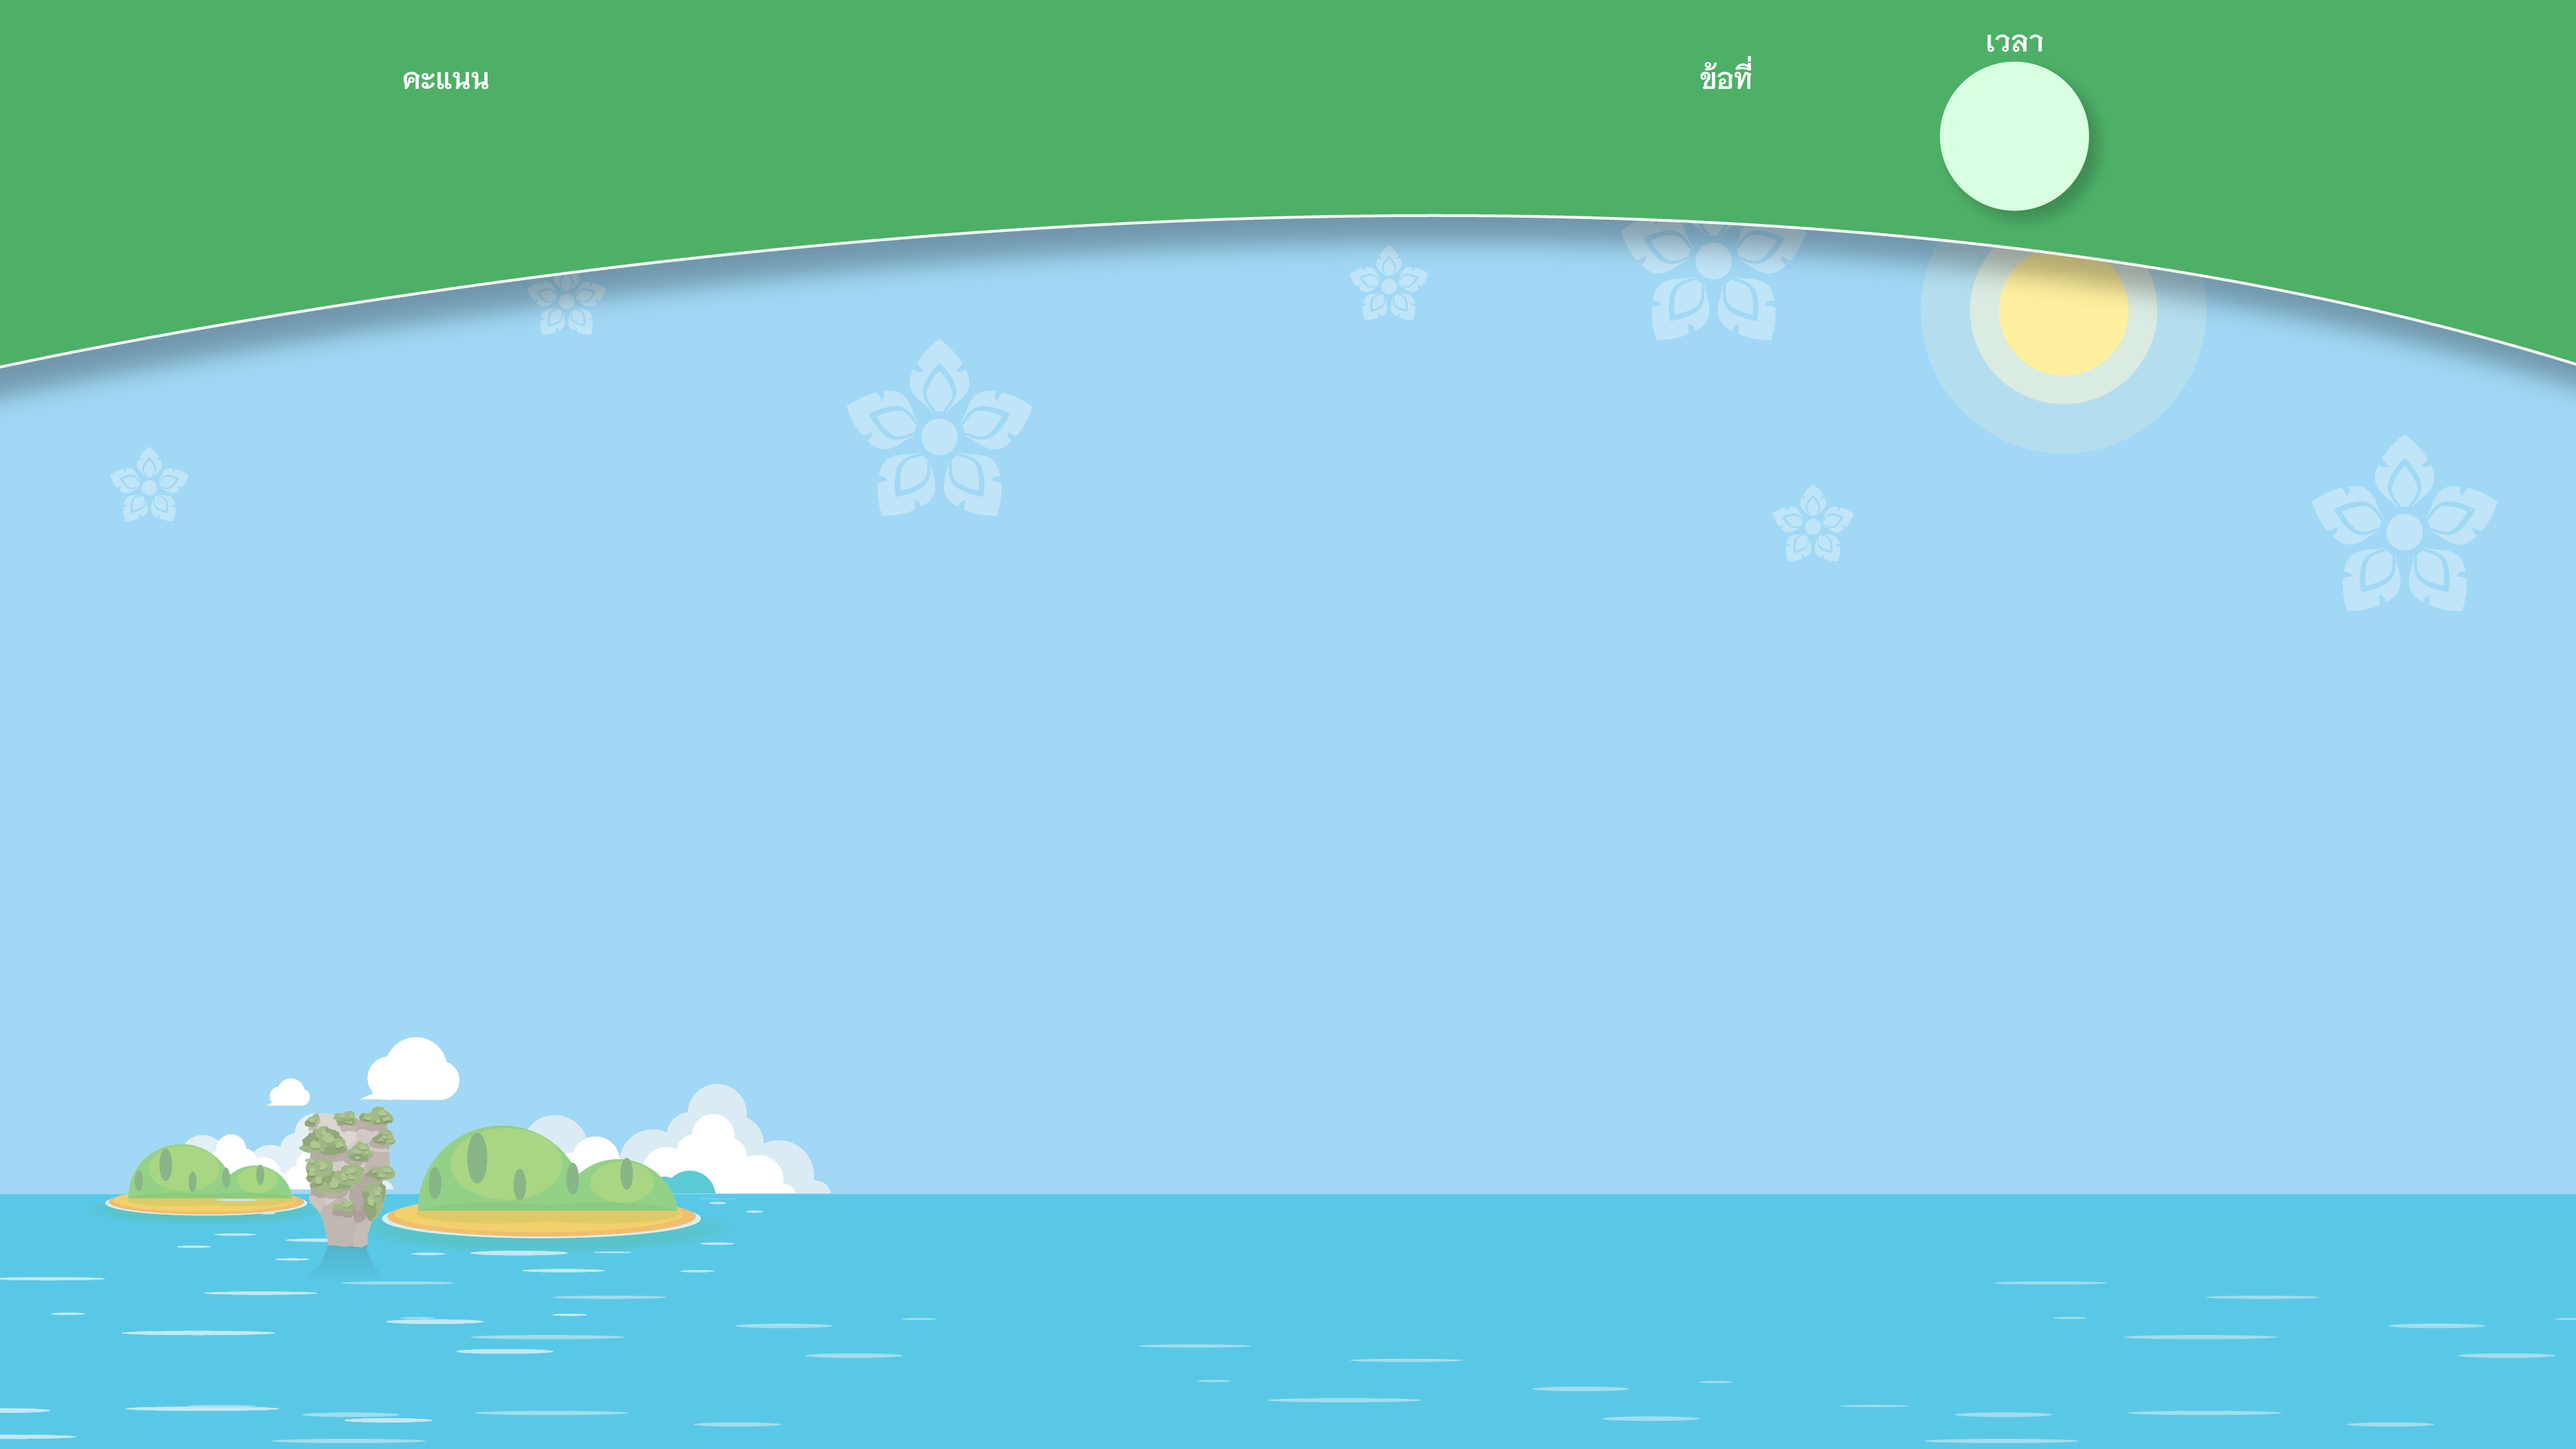
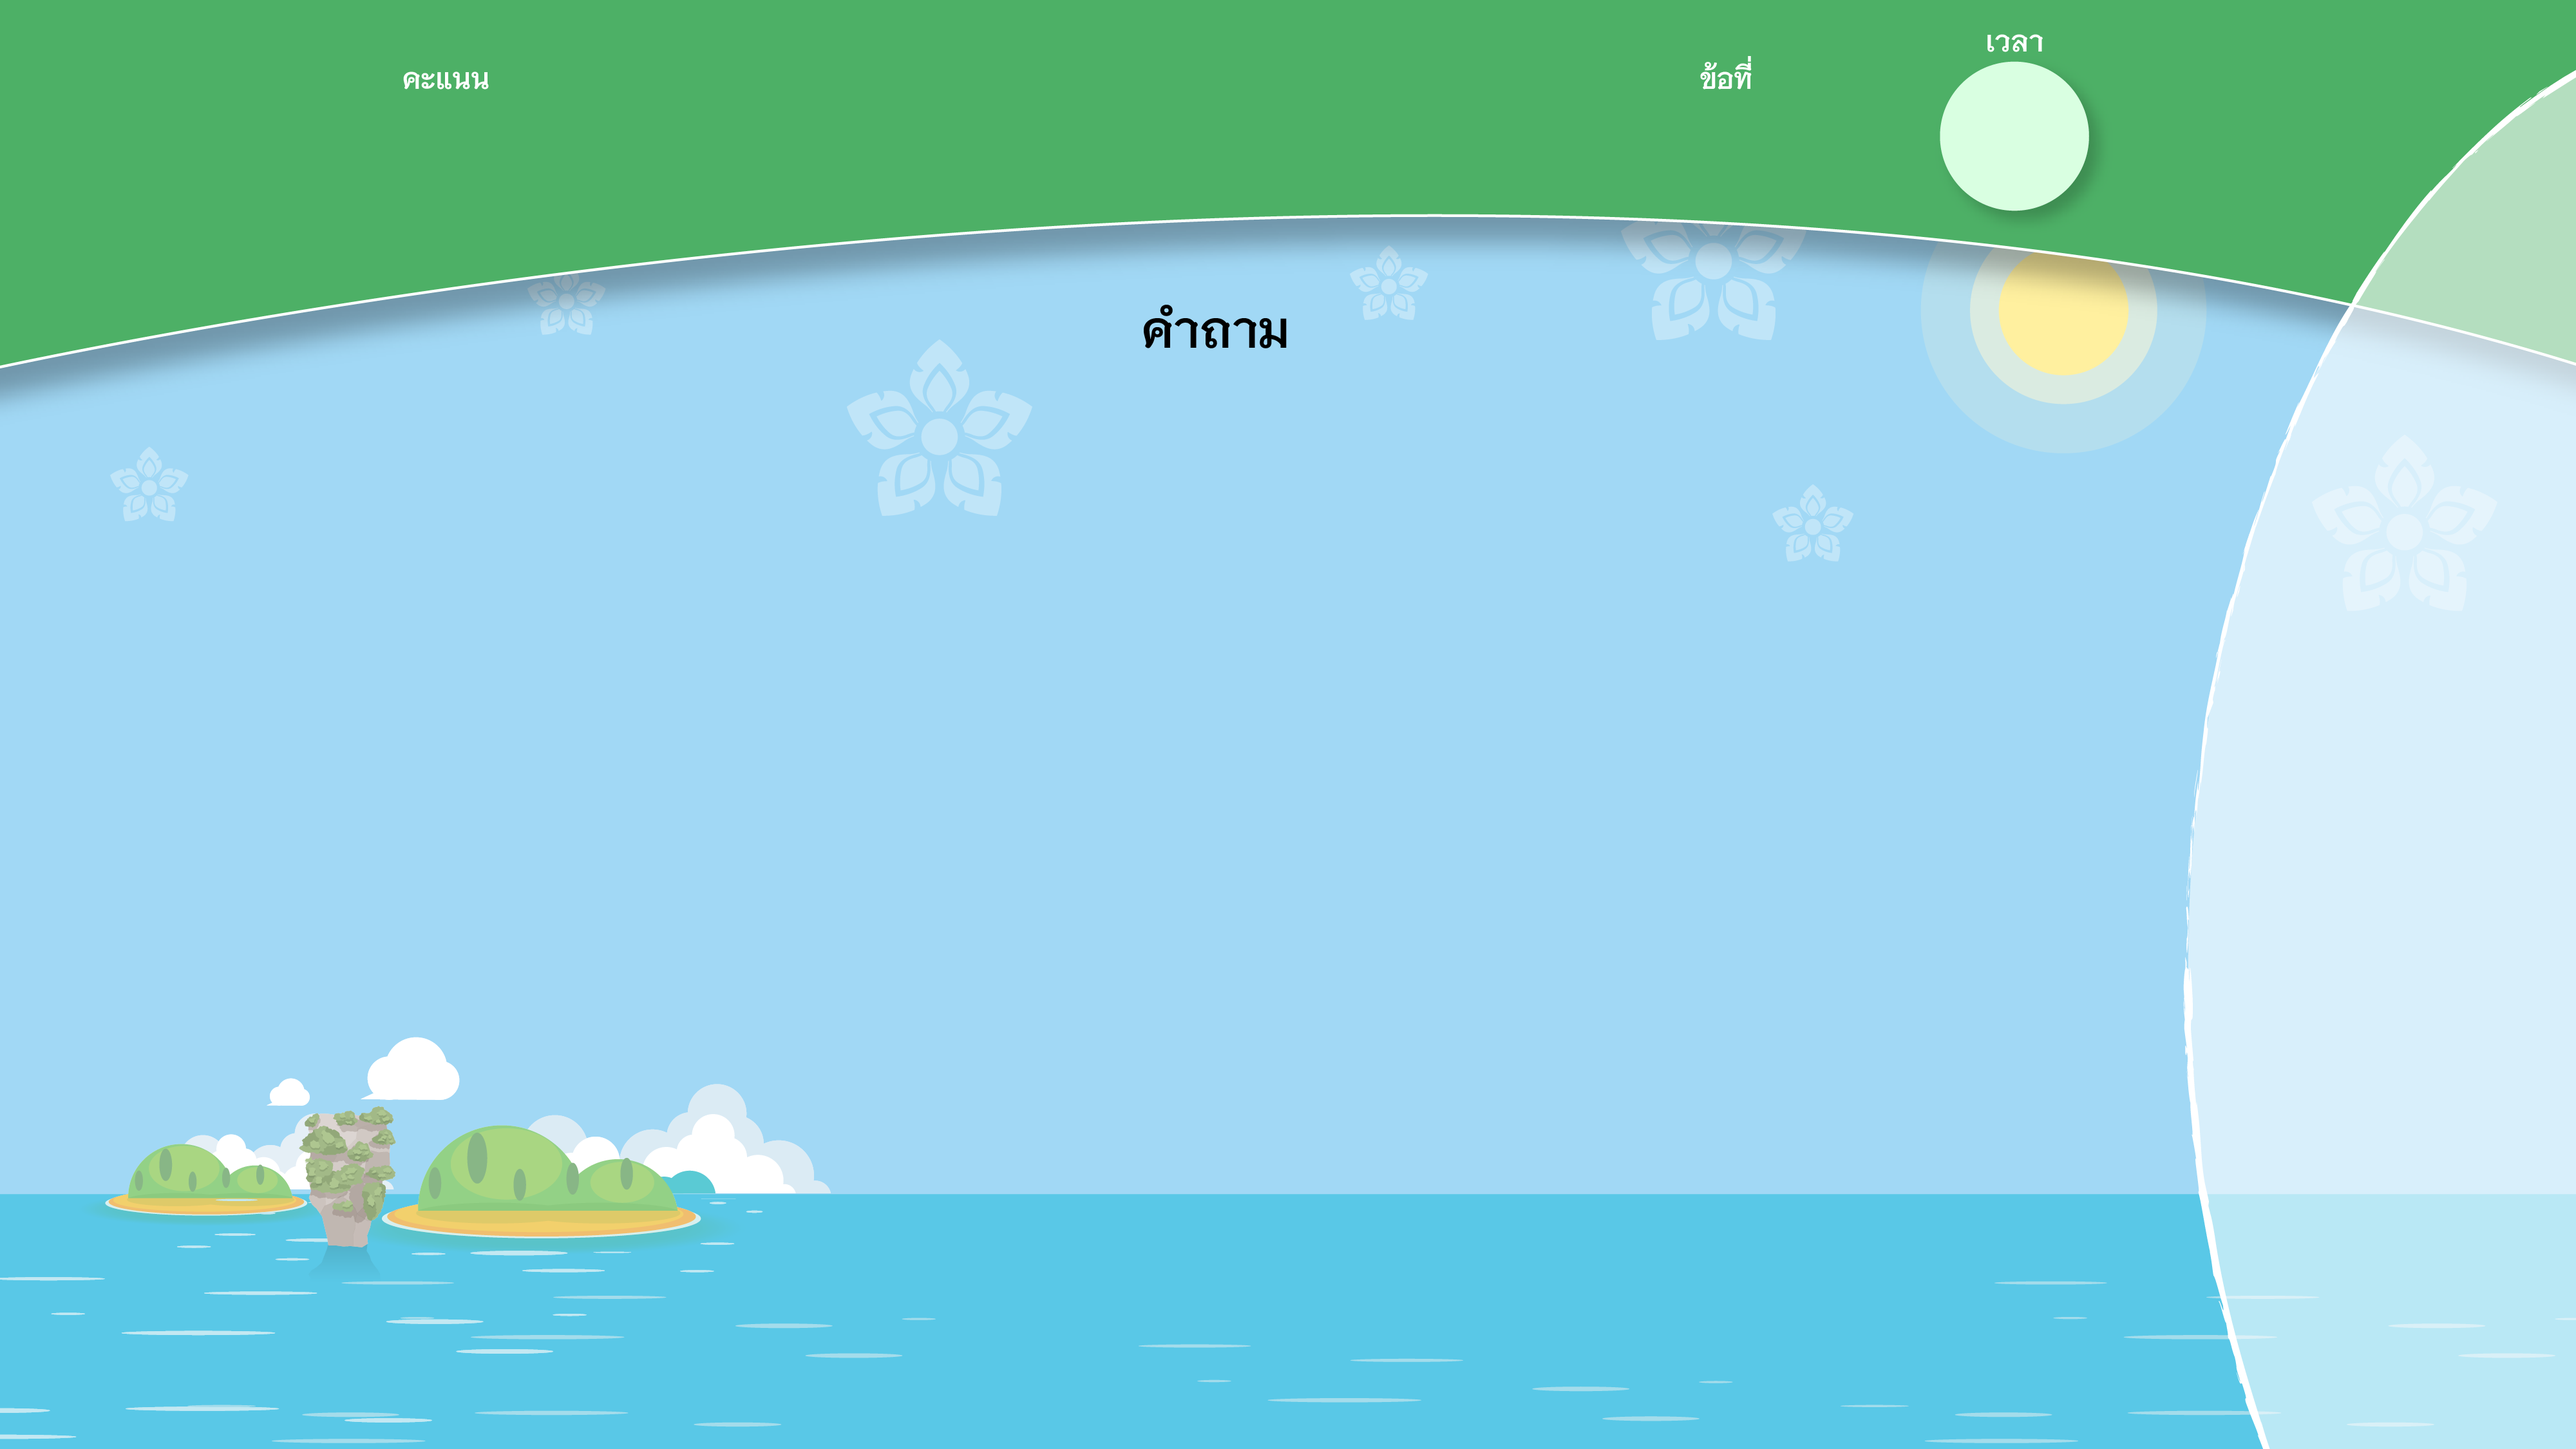
update thaigame

Changed region(s): [[0.8438, 0.0622, 1.0, 1.0], [0.4375, 0.2178, 0.5, 0.2489]]

diff --git a/assets/files/Question/PuzzleQuiz.js b/assets/files/Question/PuzzleQuiz.js
@@ -1,0 +1,13 @@
+var questions = [{
+        "Title": "อะไรเอ่ย เมื่อเด็กนุ่งผ้าขาว เมื่อสาวนุ่งผ้าเขียว แก่ทีเดียวนุ่งผ้าแดง",
+        "correct": "พริก"
+    },
+    {
+        "Title": "อะไรเอ่ย สูงเทียบฟ้า ต่ำกว่าหญ้านิดเดียว",
+        "correct": "ภูเขา"
+    },
+    {
+        "Title": "อะไรเอ่ย ตัวเป็นไม้ ไส้เป็นตะกั่ว หัวเป็นยาง",
+        "correct": "ดินสอ"
+    },
+];

diff --git a/application/views/Game_Puzzle/playgame.php b/application/views/Game_Puzzle/playgame.php
@@ -25,7 +25,7 @@ body {
 
 .frame-answer {
     margin-top: 3vh;
-    margin-left: 20vh;
+    margin-left: 21vh;
     margin-right: 1vh;
     height: 15vh;
     text-align: center;
@@ -196,16 +196,13 @@ body {
             <div class="row">
                 <div class="col">
                     <div class="frame-title">
-                        <h1 style="font-weight: bold;">เลือกเติมคำในช่องว่างให้ได้ใจความเหมาะสม
-                            "น้อยหน่า.................เสื้อและกางเกงใหม่"</h1>
+                        <h1 style="font-family: niramit; font-size: 48px;" id="questionTitle"></h1>
                     </div>
                 </div>
             </div>
             <div class="row">
                 <div class="col">
                     <div class="frame-answer">
-                        <span class="answer"></span>
-                        <span class="answer"></span>
                         <span class="answer"></span>
                     </div>
                 </div>
@@ -394,3 +391,32 @@ body {
         </div>
     </div>
 </div>
+
+<script src="<?= $themes ?>assets/files/Question/PuzzleQuiz.js"></script>
+
+<script>
+$(document).ready(function() {
+    Question();
+});
+
+function Question() {
+    var randomIndex = Math.floor(Math.random() * questions.length);
+    var selectedQuestion = questions[randomIndex];
+
+    var questionTitleElement = document.getElementById('questionTitle');
+    questionTitleElement.innerHTML = selectedQuestion.Title;
+
+    var correctAnswer = selectedQuestion.correct;
+    var hiddenAnswer = '';
+    for (var i = 0; i < correctAnswer.length; i++) {
+        if (correctAnswer[i] === ' ') {
+            hiddenAnswer += ' '; 
+        } else {
+            hiddenAnswer += '<span class="answer"></span>'; 
+        }
+    }
+
+    document.querySelector('.frame-answer').innerHTML = hiddenAnswer;
+}
+
+</script>

diff --git a/application/views/Game_LearningThai/thaigame.php b/application/views/Game_LearningThai/thaigame.php
@@ -112,12 +112,17 @@ body {
 }
 
 .boat {
-    width: 200vh;
-    height: 25vh;
-    left: 0;
-    top: 75vh;
+    width: 23vh;
+    height: 13vh;
+    left: 85%;  top: 80vh;
     position: absolute;
     z-index: -1;
+    animation: moveBoat 30s linear infinite;
+}
+
+@keyframes moveBoat {
+    0% { left: 85%; }
+    100% { left: 0; }
 }
 
 .bg-opacity {
@@ -188,7 +193,7 @@ body {
         <div class="col-md-1">
             <div class="row">
                 <div class="col">
-                    <img src="<?= $themes ?>assets/images/thai/page5/boat.gif" class="boat">
+                    <img src="<?= $themes ?>assets/images/thai/page5/boat.png" class="boat">
                 </div>
             </div>
         </div>
@@ -276,6 +281,10 @@ function Question() {
     questionContainer.innerHTML = html;
 
     startCountdown();
+
+    document.querySelector(".boat").style.animation = "none";  
+    document.querySelector(".boat").offsetHeight; 
+    document.querySelector(".boat").style.animation = "moveBoat 30s linear infinite"; 
 
     if (isFirstLoad) {
         var clauseElement = document.querySelector(".txt-clause");

diff --git a/application/views/Learning/reading-choose.php b/application/views/Learning/reading-choose.php
@@ -5,7 +5,7 @@ $themes = base_url();
 
 <style>
 body {
-    background-image: url("<?= $themes ?>assets/images/thai/page2/bg-explanation-read.png");
+    background-image: url("<?= $themes ?>assets/images/thai/page2/bg-explanation-read.jpg");
     background-size: 100% 100%;
     background-position: center;
     background-repeat: no-repeat;
@@ -26,7 +26,7 @@ body {
 }
 
 .btn-next-read {
-    margin-right: 15vh;
+    margin-right: 14vh;
     width: 32vh;
     height: 14vh;
     opacity: 1;

diff --git a/application/views/Learning/practice-reading.php b/application/views/Learning/practice-reading.php
@@ -5,7 +5,7 @@ $themes = base_url();
 
 <style>
 body {
-    background-image: url("<?= $themes ?>assets/images/thai/page2/bg-practice-read.png");
+    background-image: url("<?= $themes ?>assets/images/thai/page2/bg-practice-read.jpg");
     background-size: 100% 100%;
     background-position: center;
     background-repeat: no-repeat;
